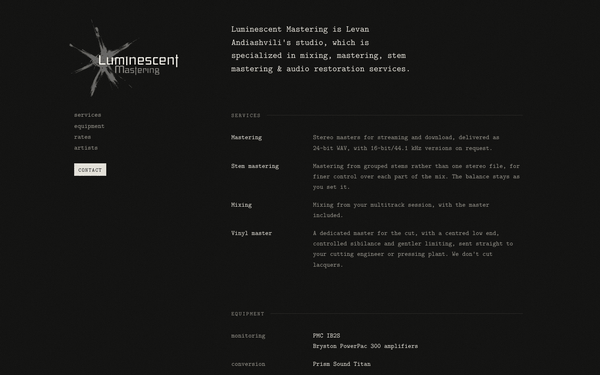
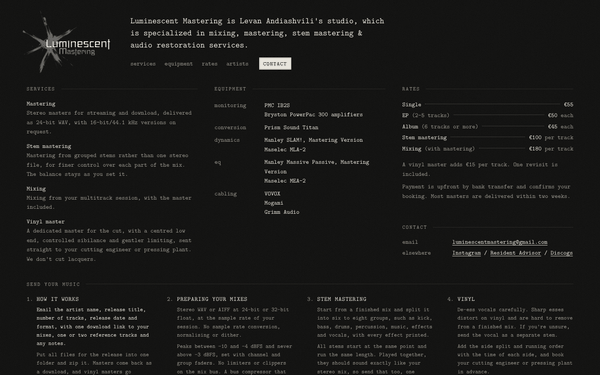
Raw laid out compactly; Worked with now follows Send your music
Raw keeps its look but is laid out like a flyer: the logo with the intro,
menu and Contact label beside it; Services, Equipment and Rates side by
side, with Contact under the prices; the four Send your music steps in
a row; then the full line-up across the page. Slightly smaller type for
the steps and the line-up, tighter gaps, and a wider sheet on big
screens. On a 1440 px wide screen the page is about 1,760 px tall
instead of 4,400; on phones everything stacks in order.

Worked with now comes after Send your music in both designs, in the
menu and in the admin.

Claude-Session: https://claude.ai/code/session_01J596TSWrTbDpVZM8kLWECq

diff --git a/src/designs/raw.css b/src/designs/raw.css
@@ -1,5 +1,6 @@
-/* Raw: black, typewriter text, the splash logo at a modest size in a side column. Built like a typed sheet
-   or a photocopied flyer: small type, plain lists, dotted price leaders, links that invert on hover. */
+/* Raw: black, typewriter text, the splash logo. Built like a typed sheet or a photocopied flyer: small type,
+   plain lists, dotted price leaders, links that invert on hover. Laid out compactly, like a flyer: a header,
+   three columns of facts, the send steps side by side, then the line-up across the full width. */
 :root {
   --bg: #0b0b0a;
   --text: #e4e1d8;
@@ -11,8 +12,8 @@
   color-scheme: dark;
 }
 * { box-sizing: border-box; }
-html { -webkit-text-size-adjust: 100%; scroll-padding-top: 24px; background: var(--grain), var(--bg); }
-body { margin: 0; color: var(--text); font: 400 15.5px/1.62 var(--mono); -webkit-font-smoothing: antialiased; }
+html { -webkit-text-size-adjust: 100%; scroll-padding-top: 20px; background: var(--grain), var(--bg); }
+body { margin: 0; color: var(--text); font: 400 14.5px/1.55 var(--mono); -webkit-font-smoothing: antialiased; }
 img { display: block; max-width: 100%; height: auto; }
 h1, h2, h3, p, dl, dd, ul, ol { margin: 0; }
 h1, h2, h3 { font-weight: 400; }
@@ -23,51 +24,71 @@ a:hover { background: var(--text); color: var(--bg); text-decoration: none; }
 .skip { position: absolute; left: -999px; }
 .skip:focus { left: 12px; top: 12px; background: var(--text); color: var(--bg); padding: 4px 8px; z-index: 5; }
 
-.page {
-  display: grid; grid-template-columns: 262px minmax(0, 700px); gap: 0 clamp(40px, 8vw, 130px);
-  max-width: 1180px; margin: 0 auto; padding: clamp(26px, 4vw, 54px) clamp(18px, 4vw, 48px) 0;
-}
+.page { max-width: 1400px; margin: 0 auto; padding: clamp(18px, 2.6vw, 34px) clamp(16px, 3.2vw, 44px) 0; }
 
-/* Side column: logo, the list of sections, the button */
-.side { position: sticky; top: clamp(26px, 4vw, 54px); align-self: start; }
-.logo { display: block; width: 262px; margin: -8px 0 0 -12px; }
+/* Header: the logo, the intro, the menu and the contact label */
+.top { display: grid; grid-template-columns: auto minmax(0, 1fr); align-items: center; gap: 14px clamp(22px, 3.4vw, 52px); }
+.logo { display: block; width: 210px; margin: -8px 0 -8px -10px; }
 .logo:hover { background: none; }
-.side nav { margin-top: 30px; display: grid; justify-items: start; gap: 1px; }
-.side nav a { text-decoration: none; text-transform: lowercase; color: var(--grey); padding: 0 3px; margin-left: -3px; }
-.side nav a:hover { color: var(--bg); }
-.stamp { display: inline-block; margin-top: 26px; padding: 5px 10px 4px; background: var(--text); color: var(--bg); text-decoration: none; text-transform: uppercase; letter-spacing: 0.1em; font-size: 13px; }
+.top-text { display: grid; gap: 16px; }
+.intro { font-size: clamp(17px, 1.45vw, 20px); line-height: 1.45; max-width: 58ch; }
+.intro + .intro { margin-top: -6px; font-size: 14.5px; color: var(--grey); }
+.top-nav { display: flex; flex-wrap: wrap; align-items: center; gap: 8px 22px; }
+.top-nav nav { display: flex; flex-wrap: wrap; gap: 2px 18px; }
+.top-nav nav a { text-decoration: none; text-transform: lowercase; color: var(--grey); padding: 0 3px; margin-left: -3px; }
+.top-nav nav a:hover { color: var(--bg); }
+.stamp { display: inline-block; padding: 5px 10px 4px; background: var(--text); color: var(--bg); text-decoration: none; text-transform: uppercase; letter-spacing: 0.1em; font-size: 13px; }
 .stamp:hover { background: transparent; color: var(--text); box-shadow: inset 0 0 0 1px var(--text); }
 
-/* Text column */
-main { min-width: 0; }
-.intro { font-size: clamp(18px, 1.55vw, 21px); line-height: 1.5; max-width: 39ch; }
-.intro + .intro { margin-top: 14px; font-size: 15.5px; color: var(--grey); }
-.sec { margin-top: clamp(56px, 6vw, 88px); }
-.sec h2 { display: flex; align-items: center; gap: 14px; margin-bottom: 20px; font-size: 13px; letter-spacing: 0.16em; text-transform: uppercase; color: var(--grey); }
+/* Body: three columns of facts (contact sits under the prices), then the send steps and the line-up across */
+.grid {
+  display: grid; grid-template-columns: repeat(3, minmax(0, 1fr)); align-items: start;
+  grid-template-areas: "services equipment rates" "services equipment contact" "send send send" "clients clients clients";
+  gap: clamp(28px, 2.8vw, 40px) clamp(26px, 2.8vw, 44px); margin-top: clamp(24px, 2.8vw, 36px);
+}
+.sec { min-width: 0; }
+#services { grid-area: services; } #equipment { grid-area: equipment; } #rates { grid-area: rates; }
+#contact { grid-area: contact; } #send { grid-area: send; } #clients { grid-area: clients; }
+.sec h2 { display: flex; align-items: center; gap: 14px; margin-bottom: 14px; font-size: 12.5px; letter-spacing: 0.16em; text-transform: uppercase; color: var(--grey); }
 .sec h2::after { content: ""; flex: 1; border-top: 1px solid var(--line); order: 1; }
 .sec h2 .toggle { order: 2; }
 
-/* Key and value rows: services, equipment, contact */
-.kv > div { display: grid; grid-template-columns: 170px minmax(0, 1fr); gap: 2px 26px; padding: 9px 0; }
-.kv dt { color: var(--text); }
-.kv dd { color: var(--grey); }
-.kv dd p + p { margin-top: 0.6em; }
-.kv.gear dd { color: var(--text); }
-.kv.gear dt { color: var(--grey); text-transform: lowercase; }
+/* Services: each name with its description under it */
+.svc { display: grid; gap: 12px; }
+.svc dt { color: var(--text); }
+.svc dd { color: var(--grey); }
+.svc dd p + p { margin-top: 0.5em; }
+
+/* Equipment and contact: key and value lines */
+.kv > div { display: grid; grid-template-columns: 104px minmax(0, 1fr); gap: 2px 16px; padding: 4px 0; }
+.kv dt { color: var(--grey); text-transform: lowercase; }
+.kv dd { color: var(--text); }
 
 /* Prices with dotted leaders */
 .prices { list-style: none; padding: 0; }
-.prices li { display: flex; align-items: baseline; gap: 10px; padding: 3px 0; }
+.prices li { display: flex; align-items: baseline; gap: 9px; padding: 2px 0; }
 .prices .note, .prices .unit { color: var(--grey); }
-.prices .dots { flex: 1; min-width: 24px; border-bottom: 1px dotted var(--dim); transform: translateY(-5px); }
+.prices .dots { flex: 1; min-width: 18px; border-bottom: 1px dotted var(--dim); transform: translateY(-5px); }
 .prices .amt { white-space: nowrap; }
-.terms { margin-top: 22px; color: var(--grey); display: grid; gap: 10px; max-width: 60ch; }
+.terms { margin-top: 14px; color: var(--grey); display: grid; gap: 8px; }
 
-/* Artists: one long line-up, like a flyer */
-.toggle { font: inherit; font-size: 13px; letter-spacing: 0.08em; color: var(--grey); background: none; border: 0; padding: 0 3px; cursor: pointer; }
+/* Send your music: the steps side by side */
+.steps { list-style: none; padding: 0; counter-reset: s; display: grid; grid-template-columns: repeat(4, minmax(0, 1fr)); gap: 22px clamp(22px, 2.4vw, 36px); }
+.steps li { counter-increment: s; display: grid; grid-template-columns: 24px minmax(0, 1fr); }
+.steps li::before { content: counter(s) "."; color: var(--grey); }
+.steps > li > div { min-width: 0; }
+.steps h3 { font-size: inherit; text-transform: uppercase; letter-spacing: 0.06em; margin-bottom: 4px; }
+.steps p { color: var(--grey); font-size: 13.5px; line-height: 1.5; }
+.steps p.lead { color: var(--text); }
+.steps p + p { margin-top: 0.5em; }
+.guide { margin-top: 18px; color: var(--grey); }
+.guide a { color: var(--text); }
+
+/* Artists: one long line-up across the page, like a flyer */
+.toggle { font: inherit; font-size: 12.5px; letter-spacing: 0.08em; color: var(--grey); background: none; border: 0; padding: 0 3px; cursor: pointer; }
 .toggle:hover, .toggle[aria-pressed="true"] { background: var(--text); color: var(--bg); }
 .toggle[hidden] { display: none; }
-.lineup { list-style: none; padding: 0; color: var(--grey); line-height: 1.85; }
+.lineup { list-style: none; padding: 0; color: var(--grey); font-size: 13.5px; line-height: 1.72; }
 /* Names come up softly near the pointer or a finger: from grey towards the paper white, with a faint haze. */
 .lineup li {
   --lit: 0;
@@ -79,32 +100,32 @@ main { min-width: 0; }
 .lineup li::after { content: "\00a0/ "; color: var(--dim); text-shadow: none; }
 .lineup li:last-child::after { content: ""; }
 .lineup li:hover { --lit: 1; }
-.more { margin-top: 14px; color: var(--text); }
+.more { margin-top: 10px; color: var(--text); }
 
-/* Send your music */
-.steps { list-style: none; padding: 0; counter-reset: s; display: grid; gap: 26px; }
-.steps li { counter-increment: s; display: grid; grid-template-columns: 34px minmax(0, 1fr); }
-.steps li::before { content: counter(s) "."; color: var(--grey); }
-.steps h3 { font-size: inherit; text-transform: uppercase; letter-spacing: 0.06em; margin-bottom: 4px; }
-.steps p { color: var(--grey); }
-.steps p.lead { color: var(--text); }
-.steps p + p { margin-top: 0.6em; }
-.steps > li > div { min-width: 0; }
-.guide { margin-top: 26px; color: var(--grey); }
-.guide a { color: var(--text); }
+/* Contact */
+.contact-line { display: grid; gap: 4px; }
+.contact-line > div { display: grid; grid-template-columns: 104px minmax(0, 1fr); gap: 2px 16px; }
+.contact-line dt { color: var(--grey); text-transform: lowercase; }
 
-footer { grid-column: 1 / -1; display: flex; justify-content: space-between; gap: 16px; margin-top: clamp(80px, 9vw, 130px); padding: 16px 0 26px; border-top: 1px solid var(--line); color: var(--dim); font-size: 13px; text-transform: lowercase; }
+footer { display: flex; justify-content: space-between; gap: 16px; margin-top: clamp(34px, 3.6vw, 50px); padding: 14px 0 22px; border-top: 1px solid var(--line); color: var(--dim); font-size: 12.5px; text-transform: lowercase; }
 footer a { text-decoration: none; padding: 0 3px; }
 
-@media (max-width: 860px) {
-  .page { grid-template-columns: minmax(0, 1fr); }
-  .side { position: static; }
-  .logo { width: 190px; margin-left: -8px; }
-  .side nav { display: flex; flex-wrap: wrap; gap: 2px 16px; margin-top: 16px; }
-  .stamp { margin-top: 16px; }
-  main { margin-top: 44px; }
+/* Big screens get a wider sheet, so more of it fits at once */
+@media (min-width: 1700px) { .page { max-width: 1820px; } }
+
+/* Narrower screens: two columns, then one */
+@media (max-width: 1100px) {
+  .grid { grid-template-columns: repeat(2, minmax(0, 1fr)); grid-template-areas: "services equipment" "rates contact" "send send" "clients clients"; }
+  .steps { grid-template-columns: repeat(2, minmax(0, 1fr)); }
 }
-@media (max-width: 560px) {
+@media (max-width: 720px) {
+  .top { grid-template-columns: minmax(0, 1fr); }
+  .logo { width: 180px; margin: -6px 0 -6px -8px; }
+  .grid { grid-template-columns: minmax(0, 1fr); grid-template-areas: none; }
+  #services, #equipment, #rates, #contact, #send, #clients { grid-area: auto; }
+  .steps { grid-template-columns: minmax(0, 1fr); }
+}
+@media (max-width: 460px) {
   .kv > div { grid-template-columns: minmax(0, 1fr); }
   .prices li { flex-wrap: wrap; }
 }

diff --git a/src/designs/raw.js b/src/designs/raw.js
@@ -1,4 +1,4 @@
-// The raw design: black, typewriter text, the splash logo in a side column. Plain, small and handmade.
+// The raw design: black, typewriter text, the splash logo. Plain, small and handmade, laid out compactly like a flyer.
 import fs from 'node:fs';
 import { html, raw, esc } from '../http.js';
 import { inline, paras, paragraphs, lines, shuffled } from '../text.js';
@@ -29,20 +29,23 @@ ${previewBar(opts)}
 <a class="skip" href="#main">Skip to content</a>
 
 <div class="page" id="top">
-<header class="side">
+<header class="top">
   <h1><a class="logo" href="#top"><img src="${asset(opts, 'logo-dark.webp')}" alt="${esc(c.seo.title)}" width="960" height="683"></a></h1>
-  ${links.length ? html`<nav aria-label="Sections">
-    ${links.map((l) => html`<a href="#${l.id}">${l.label}</a>`)}
-  </nav>` : ''}
-  ${button ? html`<a class="stamp" href="${button.href}">${button.label}</a>` : ''}
+  <div class="top-text">
+    ${intro.map((p) => html`<p class="intro">${inline(p)}</p>`)}
+    ${links.length || button ? html`<div class="top-nav">
+      ${links.length ? html`<nav aria-label="Sections">
+        ${links.map((l) => html`<a href="#${l.id}">${l.label}</a>`)}
+      </nav>` : ''}
+      ${button ? html`<a class="stamp" href="${button.href}">${button.label}</a>` : ''}
+    </div>` : ''}
+  </div>
 </header>
 
-<main id="main">
-  ${intro.map((p) => html`<p class="intro">${inline(p)}</p>`)}
-
+<main class="grid" id="main">
 ${v.services ? html`  <section class="sec" id="services" aria-labelledby="services-title">
     <h2 id="services-title">${c.services.title || c.services.nav}</h2>
-    <dl class="kv">
+    <dl class="svc">
       ${c.services.items.map((s) => html`<div><dt>${s.title}</dt><dd>${paras(s.text)}</dd></div>
       `)}
     </dl>
@@ -50,7 +53,7 @@ ${v.services ? html`  <section class="sec" id="services" aria-labelledby="servic
 ` : ''}
 ${v.equipment ? html`  <section class="sec" id="equipment" aria-labelledby="equipment-title">
     <h2 id="equipment-title">${c.equipment.title || c.equipment.nav}</h2>
-    <dl class="kv gear">
+    <dl class="kv">
       ${c.equipment.rows.map((r) => html`<div><dt>${r.label}</dt><dd>${raw(lines(r.items).map((l) => inline(l)).join('<br>'))}</dd></div>
       `)}
     </dl>
@@ -67,16 +70,7 @@ ${v.rates ? html`  <section class="sec" id="rates" aria-labelledby="rates-title"
     </div>` : ''}
   </section>
 ` : ''}
-${v.clients ? html`  <section class="sec" id="clients" aria-labelledby="clients-title">
-    <h2><span id="clients-title">${c.artists.title || c.artists.nav}</span><button class="toggle" type="button" id="sort" aria-pressed="false" hidden>[a–z]</button></h2>
-    <ul class="lineup" id="artists">
-${raw(shuffled(c.artists.names).map((n) => html`<li>${n}</li>`).join('\n'))}
-    </ul>
-    ${c.artists.more ? html`<p class="more">${c.artists.more}</p>` : ''}
-    ${artistsScript({ glow: true, radius: 100, touch: true })}
-  </section>
-` : ''}
-${v.send ? html`  <section class="sec" id="send" aria-labelledby="send-title">
+${v.send ? html`  <section class="sec wide" id="send" aria-labelledby="send-title">
     <h2 id="send-title">${c.send.title || c.send.nav || 'Send your music'}</h2>
     ${c.send.blocks.length ? html`<ol class="steps">
       ${c.send.blocks.map((b, i) => html`<li><div>
@@ -88,9 +82,18 @@ ${v.send ? html`  <section class="sec" id="send" aria-labelledby="send-title">
     ${c.send.guideButton ? html`<p class="guide"><a href="${PDF_PATH}">${c.send.guideButton}</a>${c.send.guideText ? html` ${inline(c.send.guideText)}` : ''}</p>` : ''}
   </section>
 ` : ''}
+${v.clients ? html`  <section class="sec wide" id="clients" aria-labelledby="clients-title">
+    <h2><span id="clients-title">${c.artists.title || c.artists.nav}</span><button class="toggle" type="button" id="sort" aria-pressed="false" hidden>[a–z]</button></h2>
+    <ul class="lineup" id="artists">
+${raw(shuffled(c.artists.names).map((n) => html`<li>${n}</li>`).join('\n'))}
+    </ul>
+    ${c.artists.more ? html`<p class="more">${c.artists.more}</p>` : ''}
+    ${artistsScript({ glow: true, radius: 100, touch: true })}
+  </section>
+` : ''}
 ${v.contact ? html`  <section class="sec" id="contact" aria-labelledby="contact-title">
     <h2 id="contact-title">${c.contact.title || c.contact.nav}</h2>
-    <dl class="kv">
+    <dl class="contact-line">
       ${c.contact.email ? html`<div><dt>${c.contact.emailLabel || 'Email'}</dt><dd><a href="mailto:${c.contact.email}">${c.contact.email}</a></dd></div>` : ''}
       ${c.contact.links.length ? html`<div><dt>${c.contact.linksLabel || 'Elsewhere'}</dt><dd>${raw(c.contact.links.map((l) => html`<a href="${l.url}">${l.label}</a>`.toString()).join(' / '))}</dd></div>` : ''}
     </dl>

diff --git a/src/designs/rack.js b/src/designs/rack.js
@@ -77,15 +77,6 @@ ${v.rates ? html`  <section class="sec" id="rates" aria-labelledby="rates-title"
     </div>
   </section>
 ` : ''}
-${v.clients ? html`  <section class="sec" id="clients" aria-labelledby="clients-title">
-    <div class="head"><h2 id="clients-title">${c.artists.title || c.artists.nav}</h2><button class="sort" type="button" id="sort" aria-pressed="false" hidden><span class="led" aria-hidden="true"></span>A–Z</button></div>
-      <ul class="cloud" id="artists">
-${raw(shuffled(c.artists.names).map((n) => html`        <li>${n}</li>`).join('\n'))}
-      </ul>
-      ${c.artists.more ? html`<p class="more">${c.artists.more}</p>` : ''}
-      ${artistsScript({ glow: true })}
-  </section>
-` : ''}
 ${v.send ? html`  <section class="sec" id="send" aria-labelledby="send-title">
     <div class="head"><h2 id="send-title">${c.send.title || c.send.nav || 'Send your music'}</h2></div>
     ${c.send.blocks.length ? html`<div class="send">
@@ -99,6 +90,15 @@ ${v.send ? html`  <section class="sec" id="send" aria-labelledby="send-title">
       <a class="btn" href="${PDF_PATH}"><span class="led" aria-hidden="true"></span>${c.send.guideButton}</a>
       ${c.send.guideText ? html`<p>${inline(c.send.guideText)}</p>` : ''}
     </div>` : ''}
+  </section>
+` : ''}
+${v.clients ? html`  <section class="sec" id="clients" aria-labelledby="clients-title">
+    <div class="head"><h2 id="clients-title">${c.artists.title || c.artists.nav}</h2><button class="sort" type="button" id="sort" aria-pressed="false" hidden><span class="led" aria-hidden="true"></span>A–Z</button></div>
+      <ul class="cloud" id="artists">
+${raw(shuffled(c.artists.names).map((n) => html`        <li>${n}</li>`).join('\n'))}
+      </ul>
+      ${c.artists.more ? html`<p class="more">${c.artists.more}</p>` : ''}
+      ${artistsScript({ glow: true })}
   </section>
 ` : ''}
 ${v.contact ? html`  <section class="sec" id="contact" aria-labelledby="contact-title">

diff --git a/src/admin.js b/src/admin.js
@@ -171,13 +171,6 @@ ${flash.map((f) => html`<p class="flash ${f.kind || ''}" role="status">${f.text}
 </fieldset>
 
 <fieldset>
-  <legend>Artists</legend>
-  ${sectionHead('artists', c)}
-  ${field('Names', 'artists.names', c.artists.names.join('\n'), { rows: 14, hint: html`one per line; the page shuffles them, so the order here doesn't matter. <b data-count-for="artists.names">${c.artists.names.length}</b> names`, attrs: 'spellcheck="false" class="mono"' })}
-  ${field('Line under the list', 'artists.more', c.artists.more)}
-</fieldset>
-
-<fieldset>
   <legend>Send your music</legend>
   <div class="f-row">
     ${field('Menu label', 'send.nav', c.send.nav, { hint: 'leave empty: no knob or link for this section' })}
@@ -190,6 +183,13 @@ ${flash.map((f) => html`<p class="flash ${f.kind || ''}" role="status">${f.text}
     ${field('Guide button', 'send.guideButton', c.send.guideButton, { hint: 'opens the PDF guide; leave empty to hide it' })}
     ${field('Text next to the guide button', 'send.guideText', c.send.guideText)}
   </div>
+</fieldset>
+
+<fieldset>
+  <legend>Artists</legend>
+  ${sectionHead('artists', c)}
+  ${field('Names', 'artists.names', c.artists.names.join('\n'), { rows: 14, hint: html`one per line; the page shuffles them, so the order here doesn't matter. <b data-count-for="artists.names">${c.artists.names.length}</b> names`, attrs: 'spellcheck="false" class="mono"' })}
+  ${field('Line under the list', 'artists.more', c.artists.more)}
 </fieldset>
 
 <fieldset>

diff --git a/src/page.js b/src/page.js
@@ -26,8 +26,8 @@ export function nav(c) {
     ['services', c.services.nav],
     ['equipment', c.equipment.nav],
     ['rates', c.rates.nav],
-    ['clients', c.artists.nav],
     ['send', c.send.nav],
+    ['clients', c.artists.nav],
     ['contact', c.contact.nav],
   ].filter(([id, label]) => v[id] && label).map(([id, label]) => ({ id, label }));
 }

diff --git a/src/content.js b/src/content.js
@@ -19,8 +19,8 @@ export const SECTIONS = {
   services: 'Services',
   equipment: 'Equipment',
   rates: 'Rates',
-  clients: 'Artists',
   send: 'Send your music',
+  clients: 'Artists',
   contact: 'Contact',
 };
 
